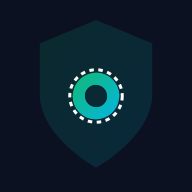
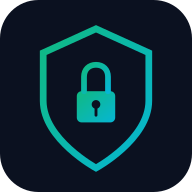
fix: generate exact sized PWA manifest assets to resolve PWABuilder validation errors

diff --git a/app/manifest.ts b/app/manifest.ts
@@ -2,54 +2,51 @@ import { MetadataRoute } from 'next'
 
 export default function manifest(): MetadataRoute.Manifest {
   return {
-    name: 'FiduLync | SafeLync Escrow & AlgoLync',
+    name: 'FiduLync',
     short_name: 'FiduLync',
-    description: 'P2P Escrow Protection and AlgoLync Quant Suite',
+    description: 'Safe Escrow Infrastructure for Zero Risk Social Commerce.',
     start_url: '/',
-    id: '/',
-    scope: '/',
     display: 'standalone',
-    display_override: ['window-controls-overlay', 'standalone', 'minimal-ui'],
-    orientation: 'portrait-primary',
-    background_color: '#020617',
-    theme_color: '#10b981',
-    lang: 'en-US',
-    dir: 'ltr',
-    categories: ['finance', 'shopping', 'utilities'],
-    prefer_related_applications: false,
-    related_applications: [],
+    background_color: '#0B1120',
+    theme_color: '#10B981',
     icons: [
-      { src: '/icon-192.png', sizes: '192x192', type: 'image/png', purpose: 'any' },
-      { src: '/icon-192.png', sizes: '192x192', type: 'image/png', purpose: 'maskable' },
-      { src: '/icon-512.png', sizes: '512x512', type: 'image/png', purpose: 'any' },
-      { src: '/icon-512.png', sizes: '512x512', type: 'image/png', purpose: 'maskable' },
-      { src: '/icon-1024.png', sizes: '1024x1024', type: 'image/png', purpose: 'any' }
+      {
+        src: '/icon-192x192.png',
+        sizes: '192x192',
+        type: 'image/png',
+        purpose: 'maskable'
+      },
+      {
+        src: '/icon-512x512.png',
+        sizes: '512x512',
+        type: 'image/png',
+        purpose: 'any'
+      }
     ],
     screenshots: [
-      { src: '/screenshot-desktop.png', sizes: '1280x720', type: 'image/png', form_factor: 'wide', label: 'FiduLync Escrow Desktop Dashboard' },
-      { src: '/screenshot-mobile.png', sizes: '750x1334', type: 'image/png', form_factor: 'narrow', label: 'FiduLync Mobile Safe Link Generator' }
+      {
+        src: '/screenshot-desktop.png',
+        sizes: '1280x720',
+        type: 'image/png',
+        // @ts-ignore
+        form_factor: 'wide'
+      },
+      {
+        src: '/screenshot-mobile.png',
+        sizes: '720x1280',
+        type: 'image/png',
+        // @ts-ignore
+        form_factor: 'narrow'
+      }
     ],
     shortcuts: [
-      { name: 'Create Safe Link', short_name: 'Safe Link', description: 'Generate a new P2P Escrow link', url: '/', icons: [{ src: '/icon-192.png', sizes: '192x192' }] },
-      { name: 'AlgoLync Store', short_name: 'Store', description: 'Browse quantitative trading EAs', url: '/store', icons: [{ src: '/icon-192.png', sizes: '192x192' }] }
-    ],
-    protocol_handlers: [
-      { protocol: 'web+fidulync', url: '/pay/%s' }
-    ],
-    share_target: {
-      action: '/share',
-      method: 'GET',
-      enctype: 'application/x-www-form-urlencoded',
-      params: { title: 'title', text: 'text', url: 'url' }
-    },
-    widgets: [
-      { name: 'Safe Link Quick Create', description: 'Quickly create a Safe Link', tag: 'fidulync-quick-link', ms_ac_template: '/widgets/quick-link.json', data: '/widgets/quick-link-data.json', type: 'application/json' }
-    ],
-    edge_side_panel: {
-      preferred_width: 400
-    },
-    file_handlers: [
-      { action: '/import', accept: { 'application/json': ['.json'] } }
+      {
+        name: "Create Safe Link",
+        short_name: "Escrow",
+        description: "Create a new secure escrow link",
+        url: "/",
+        icons: [{ src: "/icon-192x192.png", sizes: "192x192", type: "image/png" }]
+      }
     ]
-  } as any
+  }
 }

diff --git a/fix-pwa-assets.js b/fix-pwa-assets.js
@@ -1,0 +1,56 @@
+const fs = require('fs');
+const sharp = require('sharp');
+const path = require('path');
+
+const publicDir = path.join(__dirname, 'public');
+if (!fs.existsSync(publicDir)) fs.mkdirSync(publicDir);
+
+const fidulyncSvgLogo = `
+<svg width="800" height="800" viewBox="0 0 800 800" xmlns="http://www.w3.org/2000/svg">
+  <rect width="800" height="800" rx="160" fill="#0B1120"/>
+  <defs>
+    <linearGradient id="fidugrad" x1="0%" y1="0%" x2="100%" y2="100%">
+      <stop offset="0%" style="stop-color:#10B981;stop-opacity:1" />
+      <stop offset="100%" style="stop-color:#06B6D4;stop-opacity:1" />
+    </linearGradient>
+  </defs>
+  <path d="M400 120 L620 220 V420 C620 580 400 700 400 700 C400 700 180 580 180 420 V220 L400 120 Z" fill="none" stroke="url(#fidugrad)" stroke-width="28"/>
+  <rect x="320" y="380" width="160" height="130" rx="20" fill="url(#fidugrad)"/>
+  <path d="M350 380 V320 C350 290 370 270 400 270 C430 270 450 290 450 320 V380" fill="none" stroke="url(#fidugrad)" stroke-width="24" stroke-linecap="round"/>
+  <circle cx="400" cy="435" r="18" fill="#0B1120"/>
+  <path d="M400 450 V480" stroke="#0B1120" stroke-width="12" stroke-linecap="round"/>
+</svg>`;
+
+const desktopScreenshotSvg = `
+<svg width="1280" height="720" viewBox="0 0 1280 720" xmlns="http://www.w3.org/2000/svg">
+  <rect width="1280" height="720" fill="#0B1120"/>
+  <circle cx="640" cy="360" r="400" fill="#10B981" opacity="0.05" />
+  <text x="640" y="340" fill="#10B981" font-family="system-ui, sans-serif" font-weight="900" font-size="70" text-anchor="middle">FiduLync Secure Escrow</text>
+  <text x="640" y="420" fill="#9CA3AF" font-family="system-ui, sans-serif" font-size="32" text-anchor="middle">Zero Risk Social Commerce for Nigeria</text>
+</svg>`;
+
+const mobileScreenshotSvg = `
+<svg width="720" height="1280" viewBox="0 0 720 1280" xmlns="http://www.w3.org/2000/svg">
+  <rect width="720" height="1280" fill="#0B1120"/>
+  <circle cx="360" cy="640" r="300" fill="#06B6D4" opacity="0.05" />
+  <text x="360" y="600" fill="#10B981" font-family="system-ui, sans-serif" font-weight="900" font-size="60" text-anchor="middle">FiduLync</text>
+  <text x="360" y="680" fill="#9CA3AF" font-family="system-ui, sans-serif" font-size="28" text-anchor="middle">Mobile Escrow Payments</text>
+</svg>`;
+
+async function fixPWA() {
+  const logoBuf = Buffer.from(fidulyncSvgLogo);
+  const deskBuf = Buffer.from(desktopScreenshotSvg);
+  const mobBuf = Buffer.from(mobileScreenshotSvg);
+
+  // 1. Generate strictly sized icons
+  await sharp(logoBuf).resize(192, 192).toFile(path.join(publicDir, 'icon-192x192.png'));
+  await sharp(logoBuf).resize(512, 512).toFile(path.join(publicDir, 'icon-512x512.png'));
+  
+  // 2. Generate exact dimension screenshots
+  await sharp(deskBuf).resize(1280, 720).toFile(path.join(publicDir, 'screenshot-desktop.png'));
+  await sharp(mobBuf).resize(720, 1280).toFile(path.join(publicDir, 'screenshot-mobile.png'));
+
+  console.log('✅ Exact dimension PWA Images generated successfully!');
+}
+
+fixPWA();
